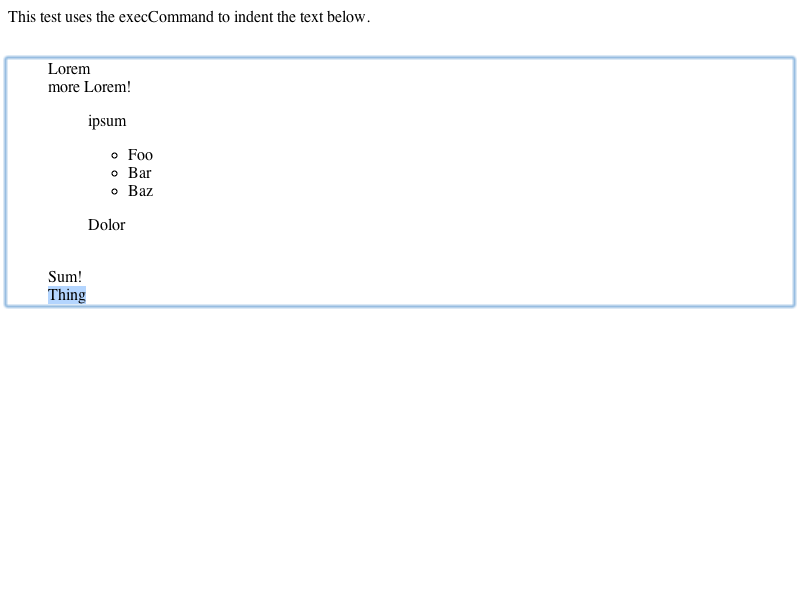
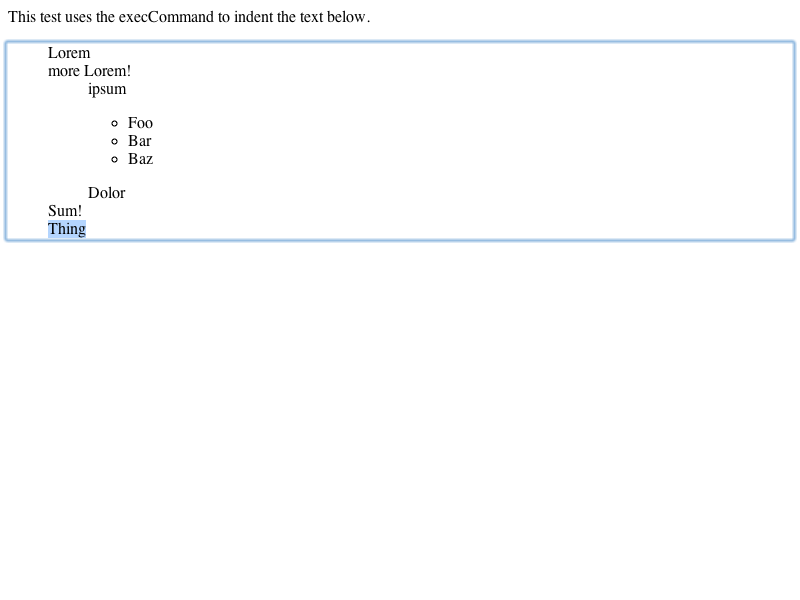
LayoutTests:
Reviewed by levi

        <rdar://problem/4447885>
        API: WebView should have a method something like incrementLeftMarginBy: or indentBy:

        Changed blockquotes in these tests to blockquote class="webkit-indent-blockquote".
        * editing/execCommand/indent-empty-root-expected.txt:
        * editing/execCommand/indent-selection-expected.checksum:
        * editing/execCommand/indent-selection-expected.png:
        * editing/execCommand/indent-selection-expected.txt:
        * editing/execCommand/indent-selection.html:
        * editing/execCommand/nsresponder-indent-expected.txt:
        * editing/execCommand/nsresponder-outdent.html:
        * editing/execCommand/outdent-selection-expected.checksum:
        * editing/execCommand/outdent-selection-expected.png:
        * editing/execCommand/outdent-selection-expected.txt:

        Ditto.  Added a FIXME:
        * editing/execCommand/outdent-selection.html:

WebCore:

        Reviewed by levi

        <rdar://problem/4447885>
        API: WebView should have a method something like incrementLeftMarginBy: or indentBy:

        Fixed indent/outdent to only increment the left margin, to match other browsers.
        Used blockquote class="webkit-indent-blockquote" to do this.  Mail can now
        implement indent/outdent by customizing the appearance of these blockquotes,
        instead of using a new API.

        * css/html4.css: Added margin: 0 0 0 40px for webkit-indent-blockquotes.
[…]

Changed region(s): [[0.0, 0.33, 1.0, 0.54], [0.0, 0.06, 1.0, 0.33]]

diff --git a/LayoutTests/editing/execCommand/outdent-selection.html b/LayoutTests/editing/execCommand/outdent-selection.html
@@ -1,11 +1,9 @@
-<div id="description">
-This test uses the execCommand to Outdent the text below.
-</div>
+<div id="description">This test uses the execCommand to Outdent the text below. <b>This demonstrates a bug: the content in the blockquote that's not in a list is pulled out of position.</b></div>
 <br>
 <div contenteditable="true">
 <span id="item1">Lorem</span><br>
 more Lorem!
-<blockquote>
+<blockquote class="webkit-indent-blockquote">
 ipsum<br>
 
 <ul>

diff --git a/LayoutTests/editing/execCommand/nsresponder-outdent.html b/LayoutTests/editing/execCommand/nsresponder-outdent.html
@@ -1,5 +1,5 @@
 <p>This tests the outdent: method.  You should see an undented 'foo' below.</p>
-<div id="div" contenteditable="true"><blockquote>foo</blockquote></div>
+<div id="div" contenteditable="true"><blockquote class="webkit-indent-blockquote">foo</blockquote></div>
 
 <script>
 var div = document.getElementById("div");

diff --git a/LayoutTests/editing/execCommand/indent-selection.html b/LayoutTests/editing/execCommand/indent-selection.html
@@ -5,7 +5,7 @@ This test uses the execCommand to indent the text below.
 <div contenteditable="true">
 <span id="item1">Lorem</span><br>
 more Lorem!
-<blockquote>
+<blockquote class="webkit-indent-blockquote">
 ipsum<br>
 
 <ul>

diff --git a/WebCore/css/html4.css b/WebCore/css/html4.css
@@ -570,4 +570,9 @@ frameset, frame {
     display: block
 }
 
+blockquote.webkit-indent-blockquote {
+    margin: 0 0 0 40px;
+}
+
+
 /* noscript is handled internally, as it depends on settings */

diff --git a/WebCore/editing/IndentOutdentCommand.cpp b/WebCore/editing/IndentOutdentCommand.cpp
@@ -40,22 +40,36 @@ namespace WebCore {
 
 using namespace HTMLNames;
 
+static String indentBlockquoteString()
+{
+    static String string = "webkit-indent-blockquote";
+    return string;
+}
+
+static PassRefPtr<Element> createIndentBlockquoteElement(Document* document)
+{
+    RefPtr<Element> indentBlockquoteElement = createElement(document, "blockquote");
+    indentBlockquoteElement->setAttribute(classAttr, indentBlockquoteString());
+    return indentBlockquoteElement.release();
+}
+
+static bool isIndentBlockquote(Node* node)
+{
+    if (!node || !node->hasTagName(blockquoteTag) || !node->isElementNode())
+        return false;
+
+    Element* elem = static_cast<Element*>(node);
+    return elem->getAttribute(classAttr) == indentBlockquoteString();
+}
+
+static bool isListOrIndentBlockquote(Node* node)
+{
+    return node && (node->hasTagName(ulTag) || node->hasTagName(olTag) || isIndentBlockquote(node));
+}
+
 IndentOutdentCommand::IndentOutdentCommand(Document* document, EIndentType typeOfAction, int marginInPixels)
     : CompositeEditCommand(document), m_typeOfAction(typeOfAction), m_marginInPixels(marginInPixels)
 {}
-
-static Node* enclosingListOrBlockquote(Node* node)
-{
-    if (!node)
-        return 0;
-    Node* root = (node->inDocument()) ? node->rootEditableElement() : highestAncestor(node);
-    ASSERT(root);
-    for (Node* n = node->parentNode(); n && (n == root || n->isDescendantOf(root)); n = n->parentNode())
-        if (n->hasTagName(ulTag) || n->hasTagName(olTag) || n->hasTagName(blockquoteTag))
-            return n;
-            
-    return 0;
-}
 
 // This function is a workaround for moveParagraph's tendency to strip blockquotes. It updates lastBlockquote to point to the
 // correct level for the current paragraph, and returns a pointer to a placeholder br where the insertion should be performed.
@@ -64,27 +78,27 @@ Node* IndentOutdentCommand::prepareBlockquoteLevelForInsertion(VisiblePosition& 
     int currentBlockquoteLevel = 0;
     int lastBlockquoteLevel = 0;
     Node* node = currentParagraph.deepEquivalent().node();
-    while ((node = enclosingNodeWithTag(node, blockquoteTag)))
+    while ((node = enclosingNodeOfType(node, &isIndentBlockquote)))
         currentBlockquoteLevel++;
     node = *lastBlockquote;
-    while ((node = enclosingNodeWithTag(node, blockquoteTag)))
+    while ((node = enclosingNodeOfType(node, &isIndentBlockquote)))
         lastBlockquoteLevel++;
     while (currentBlockquoteLevel > lastBlockquoteLevel) {
-        RefPtr<Node> newBlockquote = createElement(document(), "blockquote");
+        RefPtr<Node> newBlockquote = createIndentBlockquoteElement(document());
         appendNode(newBlockquote.get(), *lastBlockquote);
         *lastBlockquote = newBlockquote.get();
         lastBlockquoteLevel++;
     }
     while (currentBlockquoteLevel < lastBlockquoteLevel) {
-        *lastBlockquote = enclosingNodeWithTag(*lastBlockquote, blockquoteTag);
+        *lastBlockquote = enclosingNodeOfType(*lastBlockquote, &isIndentBlockquote);
         lastBlockquoteLevel--;
     }
     RefPtr<Node> placeholder = createBreakElement(document());
-    if ((*lastBlockquote)->firstChild() && !(*lastBlockquote)->lastChild()->hasTagName(brTag)) {
-        RefPtr<Node> collapsedPlaceholder = createBreakElement(document());
-        appendNode(collapsedPlaceholder.get(), (*lastBlockquote));
-    }
     appendNode(placeholder.get(), *lastBlockquote);
+    // Add another br before the placeholder if it collapsed.
+    VisiblePosition visiblePos(Position(placeholder.get(), 0));
+    if (!isStartOfParagraph(visiblePos))
+        insertNodeBefore(createBreakElement(document()).get(), placeholder.get());
     return placeholder.get();
 }
 
@@ -116,7 +130,7 @@ void IndentOutdentCommand::indentRegion()
     // and there's nothing to move.
     Node* startNode = startOfSelection.deepEquivalent().downstream().node();
     if (startNode == startNode->rootEditableElement()) {
-        RefPtr<Node> blockquote = createElement(document(), "blockquote");
+        RefPtr<Node> blockquote = createIndentBlockquoteElement(document());
         insertNodeAt(blockquote.get(), startNode, 0);
         RefPtr<Node> placeholder = createBreakElement(document());
         appendNode(placeholder.get(), blockquote.get());
@@ -158,7 +172,7 @@ void IndentOutdentCommand::indentRegion()
         else {
             // Create a new blockquote and insert it as a child of the root editable element. We accomplish
             // this by splitting all parents of the current paragraph up to that point.
-            RefPtr<Node> blockquote = createElement(document(), "blockquote");
+            RefPtr<Node> blockquote = createIndentBlockquoteElement(document());
             Node* startNode = startOfParagraph(endOfCurrentParagraph).deepEquivalent().node();
             Node* startOfNewBlock = splitTreeToNode(startNode, startNode->rootEditableElement());
             insertNodeBefore(blockquote.get(), startOfNewBlock);
@@ -175,25 +189,19 @@ void IndentOutdentCommand::outdentParagraph()
     VisiblePosition visibleStartOfParagraph = startOfParagraph(endingSelection().visibleStart());
     VisiblePosition visibleEndOfParagraph = endOfParagraph(visibleStartOfParagraph);
 
-    Node* enclosingNode = enclosingListOrBlockquote(visibleStartOfParagraph.deepEquivalent().node());
+    Node* enclosingNode = enclosingNodeOfType(visibleStartOfParagraph.deepEquivalent().node(), &isListOrIndentBlockquote);
     if (!enclosingNode)
         return;
 
-    // Handle the list case
-    bool inList = false;
-    InsertListCommand::Type typeOfList;
+    // Use InsertListCommand to remove the selection from the list
     if (enclosingNode->hasTagName(olTag)) {
-        inList = true;
-        typeOfList = InsertListCommand::OrderedList;
+        applyCommandToComposite(new InsertListCommand(document(), InsertListCommand::OrderedList, ""));
+        return;        
     } else if (enclosingNode->hasTagName(ulTag)) {
-        inList = true;
-        typeOfList = InsertListCommand::UnorderedList;
-    }
-    if (inList) {
-        // Use InsertListCommand to remove the selection from the list
-        applyCommandToComposite(new InsertListCommand(document(), typeOfList, ""));
+        applyCommandToComposite(new InsertListCommand(document(), InsertListCommand::UnorderedList, ""));
         return;
     }
+    
     // The selection is inside a blockquote
     VisiblePosition positionInEnclosingBlock = VisiblePosition(Position(enclosingNode, 0));
     VisiblePosition startOfEnclosingBlock = startOfBlock(positionInEnclosingBlock);

diff --git a/WebCore/editing/htmlediting.cpp b/WebCore/editing/htmlediting.cpp
@@ -549,6 +549,22 @@ Node* enclosingNodeWithTag(Node* node, const QualifiedName& tagName)
     return 0;
 }
 
+Node* enclosingNodeOfType(Node* node, bool (*nodeIsOfType)(Node*))
+{
+    if (!node)
+        return 0;
+        
+    Node* root = highestEditableRoot(Position(node, 0));
+    if (!root)
+        root = highestAncestor(node);
+        
+    for (Node* n = node->parentNode(); n && (n == root || n->isDescendantOf(root)); n = n->parentNode())
+        if ((*nodeIsOfType)(n))
+            return n;
+            
+    return 0;
+}
+
 Node* enclosingTableCell(Node* node)
 {
     if (!node)

diff --git a/WebCore/editing/htmlediting.h b/WebCore/editing/htmlediting.h
@@ -103,6 +103,7 @@ Position positionAfterContainingSpecialElement(const Position&, Node** containin
 Position positionOutsideContainingSpecialElement(const Position&, Node** containingSpecialElement=0);
 
 Node* enclosingNodeWithTag(Node*, const QualifiedName&);
+Node* enclosingNodeOfType(Node*, bool (*nodeIsOfType)(Node*));
 Node* enclosingTableCell(Node*);
 Node* enclosingEmptyListItem(const VisiblePosition&);
 bool isListElement(Node*);
